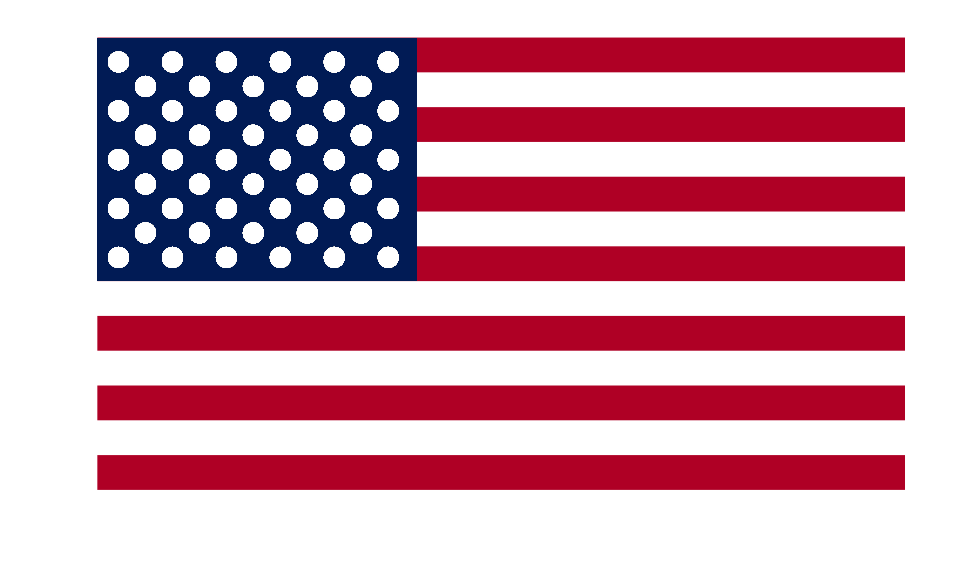
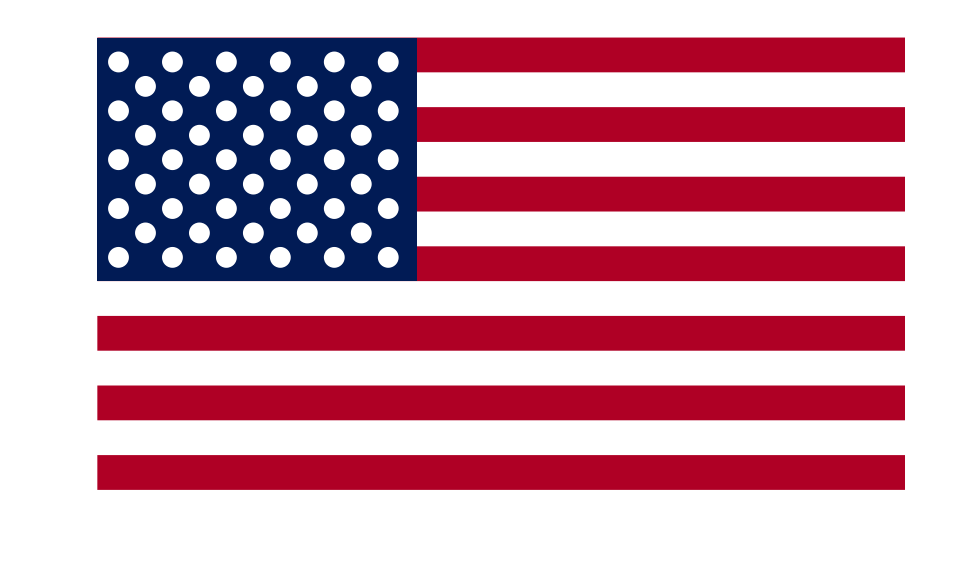
plotting stars is more efficient

diff --git a/content/post/2019-03-28-flags-of-the-world.html b/content/post/2019-03-28-flags-of-the-world.html
@@ -12,6 +12,7 @@ summary: "Using ggplot to make flags of the world"
 output:
   blogdown::html_page:
     toc: true
+    toc_depth: 1
 thumbnailImagePosition: left
 thumbnailImage: https://res.cloudinary.com/dn83gtg0l/image/upload/v1553842477/national-flags.jpg
 ---
@@ -19,17 +20,23 @@ thumbnailImage: https://res.cloudinary.com/dn83gtg0l/image/upload/v1553842477/na
 
 <div id="TOC">
 <ul>
-<li><a href="#united-states">United States</a></li>
-<li><a href="#france">France</a></li>
+<li><a href="#north-america">North America</a></li>
+<li><a href="#europe">Europe</a></li>
 </ul>
 </div>
 
 <p>Graphing flags of the world in ggplot, because why not?</p>
-<div id="united-states" class="section level1">
-<h1>United States</h1>
-<p><img src="/post/2019-03-28-flags-of-the-world_files/figure-html/unnamed-chunk-1-1.png" width="480" /></p>
+<div id="north-america" class="section level1">
+<h1>North America</h1>
+<div id="united-states" class="section level2">
+<h2>United States</h2>
+<p>There are no stars in ggplot :slightly_frowning_face: <img src="/post/2019-03-28-flags-of-the-world_files/figure-html/unnamed-chunk-1-1.png" width="480" /></p>
 </div>
-<div id="france" class="section level1">
-<h1>France</h1>
+</div>
+<div id="europe" class="section level1">
+<h1>Europe</h1>
+<div id="france" class="section level2">
+<h2>France</h2>
 <p><img src="/post/2019-03-28-flags-of-the-world_files/figure-html/unnamed-chunk-2-1.png" width="480" /></p>
+</div>
 </div>
